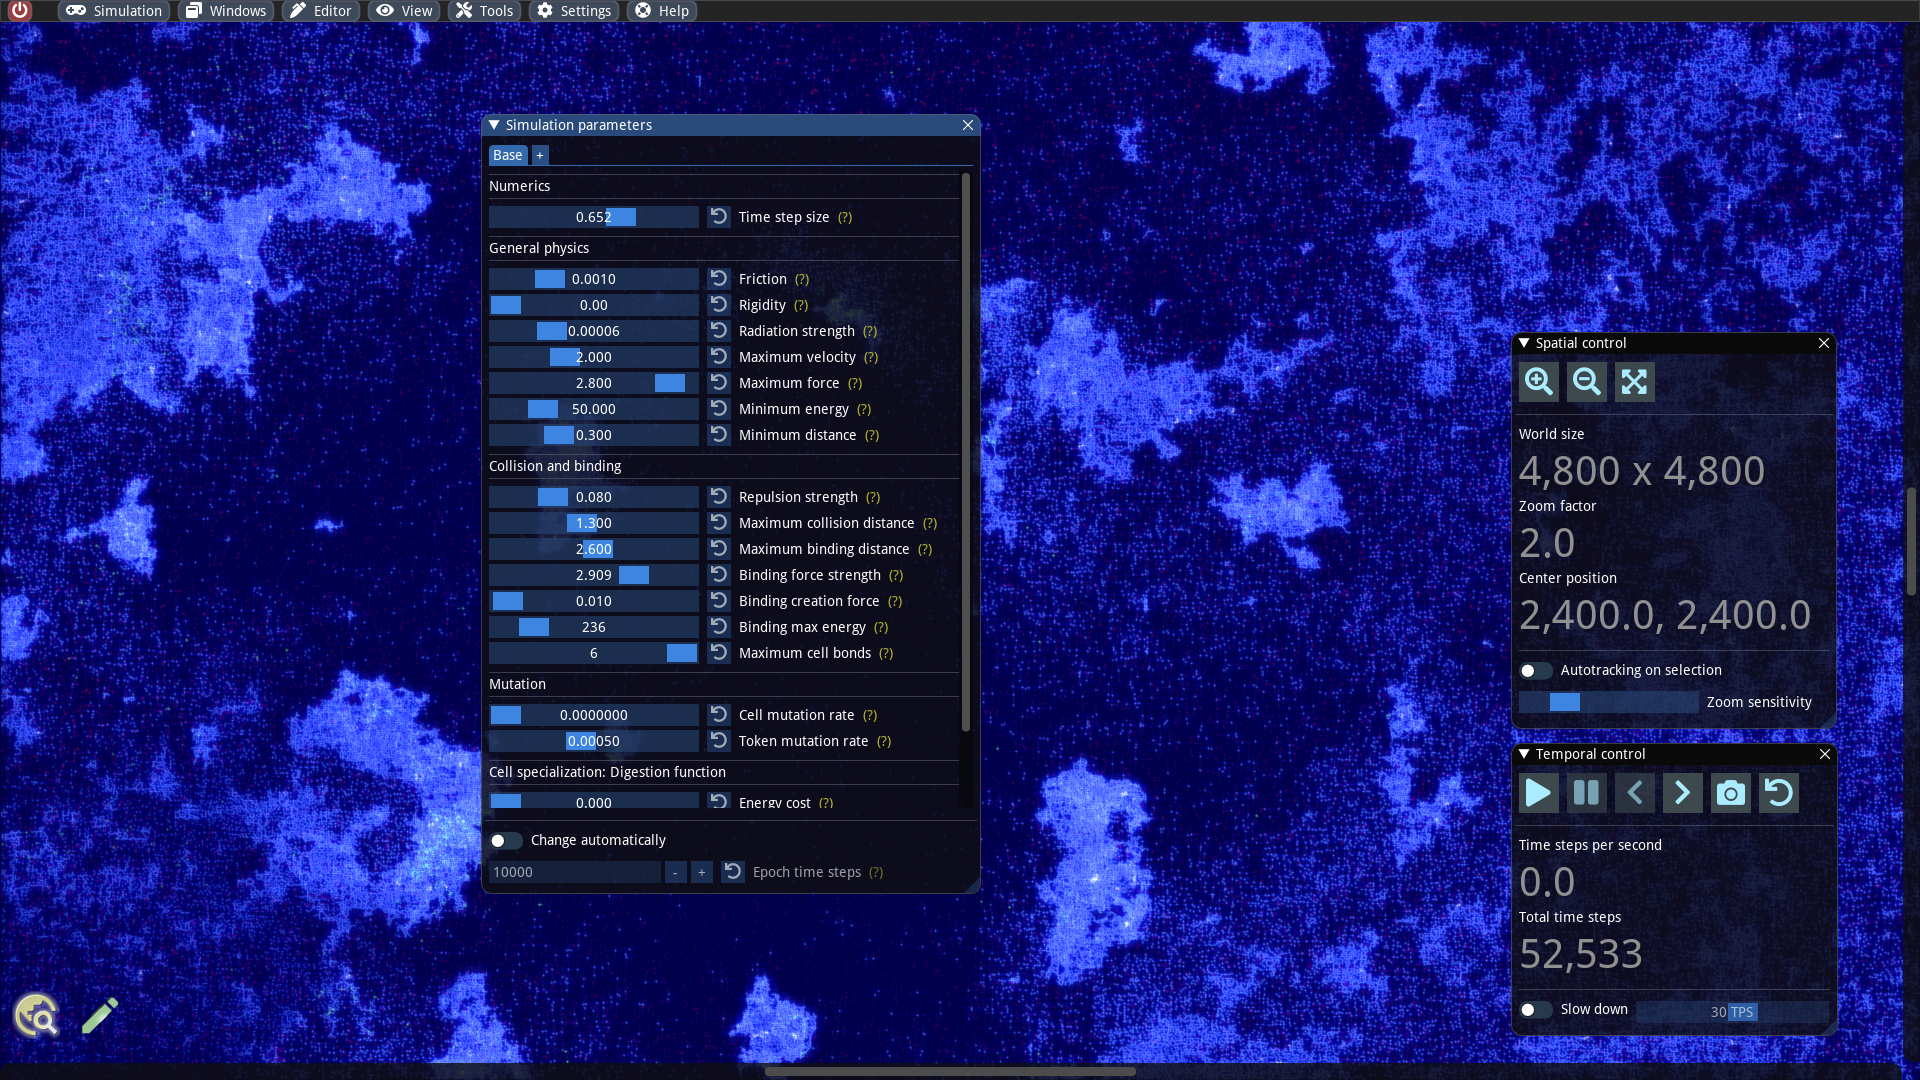
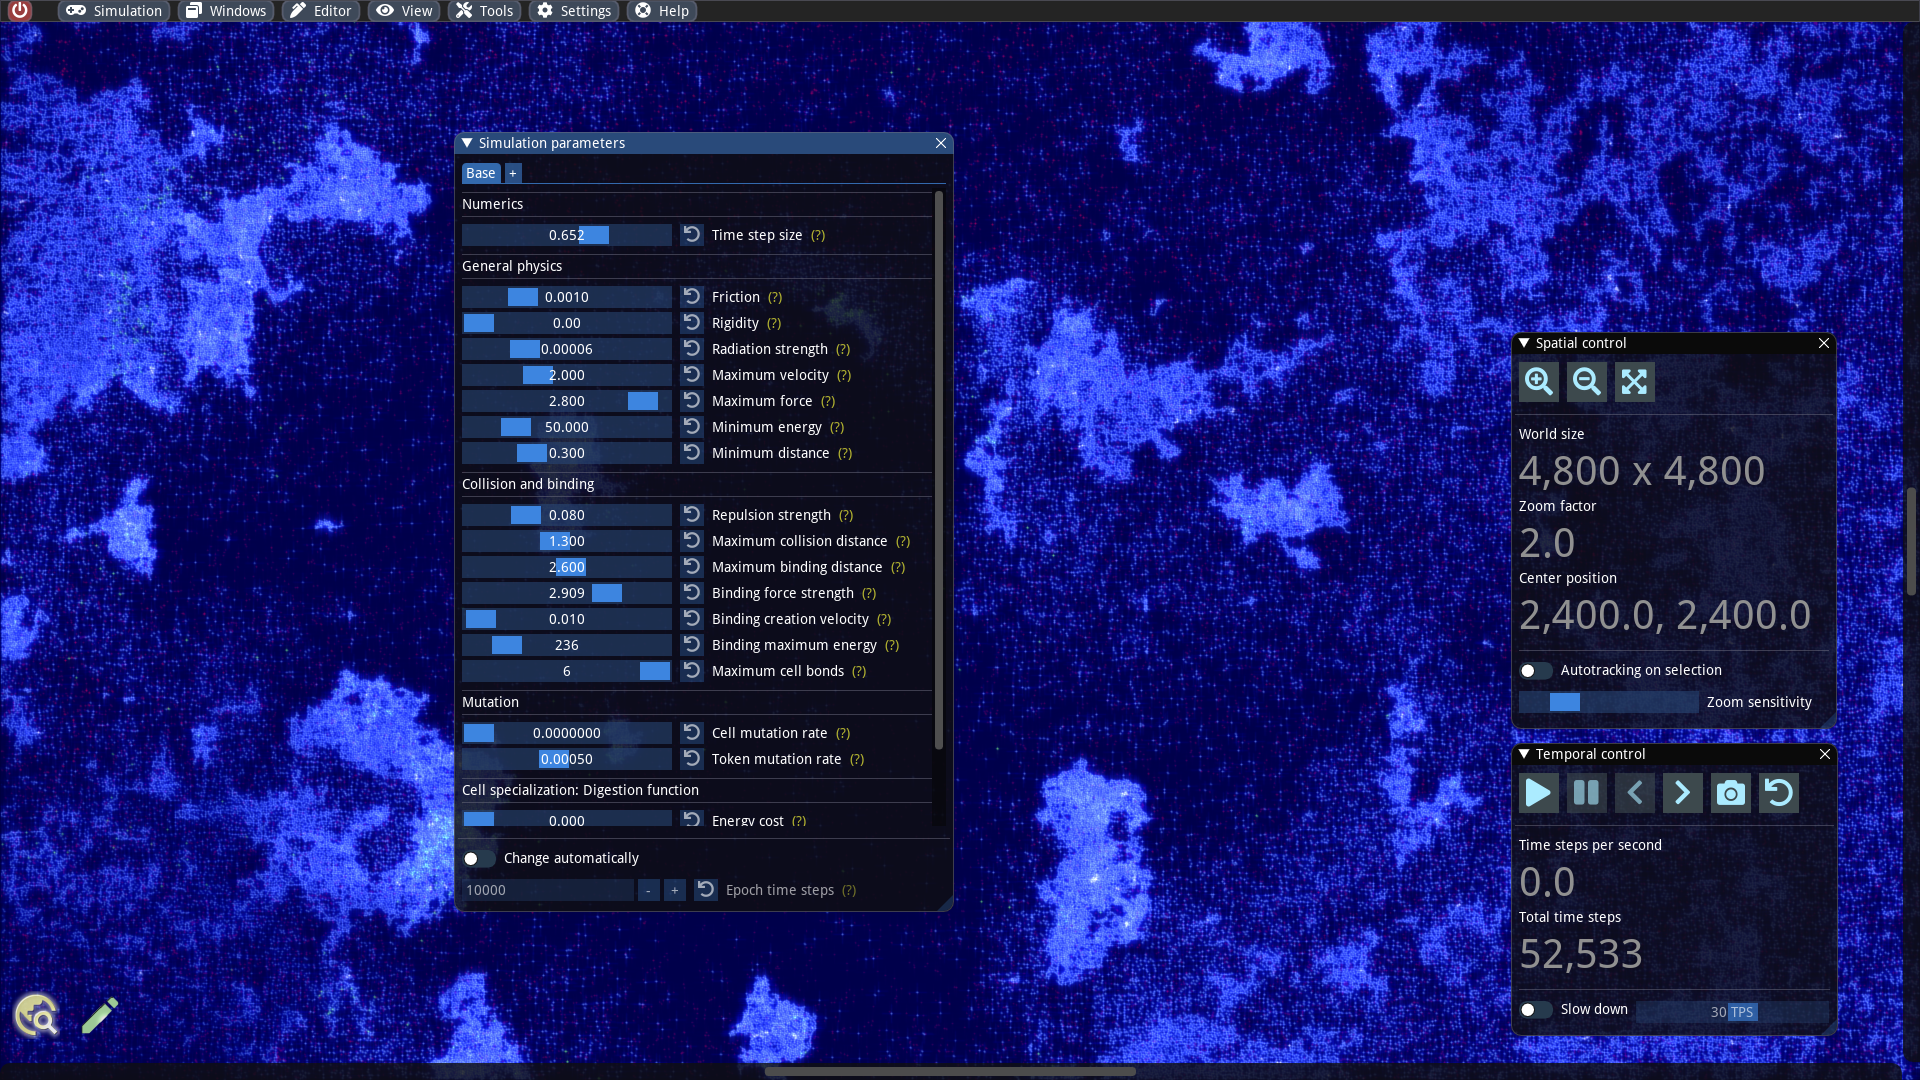
GitBook: [#90] No subject

Changed region(s): [[0.2188, 0.0917, 0.5312, 0.8556]]

diff --git a/start-topics/simulation-parameters.md b/start-topics/simulation-parameters.md
@@ -16,12 +16,12 @@ Basically, changes to the parameters become active immediately and can also be c
 
 ## Adjust physical parameters
 
-We would like to focus on a few physical parameters and describe their effect in the following. The other parameters responsible for mutations and cell functions we will explored later. We recommend to run the loaded simulation and to play around with the sliders to the associated parameters.
+We would like to focus on a few physical parameters and describe their effect in the following. The other parameters responsible for mutations and cell functions we will explored later. We recommend running the loaded simulation, playing with the sliders of the associated parameters and applying forces with the mouse pointer to observe the effects.
 
 * _Friction_: This value indicates how much the particles are decelerated in each time step. If this value is high, all movements quickly come to a halt. As a result, strong adaptive pressure is generated in evolutionary simulations, favoring individuals that are able to move quickly.
 * _Rigidity_: Since ALIEN is based on a pure particle engine, rigid bodies cannot really be simulated. Nevertheless, in order to approximate rigid motions, an additional processing step can be switched on with this parameter, which requires some extra computation time (typically about 30%).
 * _Radiation strength_: A high radiation leads to rapid energy losses of the cells and ultimately to their decay. If the radiation is too strong, stable structures cannot exist for a longer time and the simulation quickly reaches maximum entropy.
 * _Maximum force_: If the force acting on a cell is greater than this value, the cell and their connections to neighboring cells will be destroyed. A high value consequently produces great amount of damage in an event of collisions.
-* _Binding creation force_:
+* _Binding creation velocity_: When two cells collide, a new connection can be established if both cells still have a free space for a connection and the impact velocity exceeds a specific value that can be set with this parameter. It is easy to perceive that with a high value, the fluid in the simulation clumps very easily.
 * _Binding maximum energy_:
 
